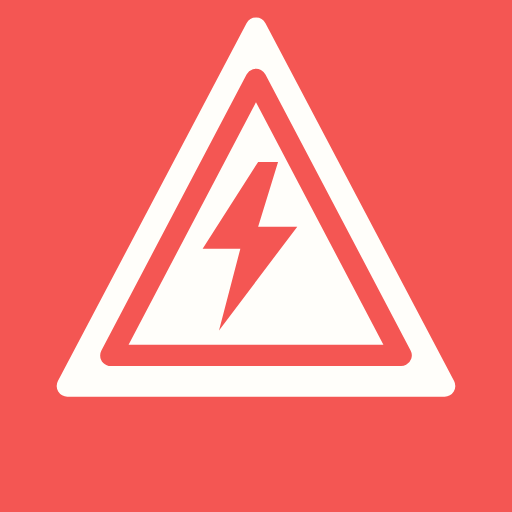
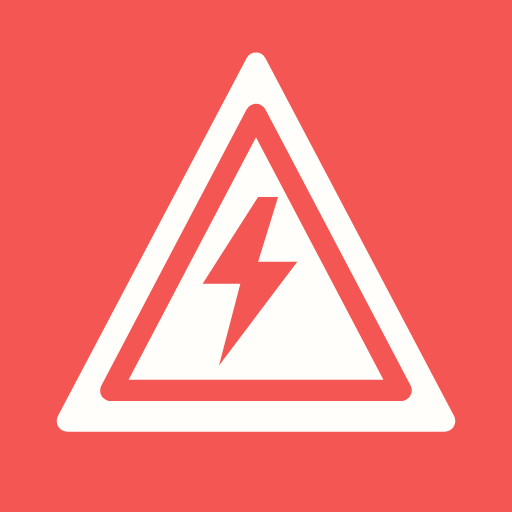
Lower the Dock mark so the triangle reads as centered.
The any icons and apple-touch icon shift the triangle down about 35px at 512. Its bounding box sits slightly above the canvas center, and the bottom corners stay clear of the macOS squircle.

Changed region(s): [[0.0938, 0.0312, 0.9062, 0.8438]]

diff --git a/public/index.html b/public/index.html
@@ -6,12 +6,12 @@
   <meta name="robots" content="noindex">
   <meta name="viewport" content="width=device-width, initial-scale=1, shrink-to-fit=no">
   <meta name="theme-color" content="#F45653">
-  <link rel="manifest" href="%PUBLIC_URL%/manifest.json?v=3">
+  <link rel="manifest" href="%PUBLIC_URL%/manifest.json?v=4">
   <link rel="icon" type="image/svg+xml" href="%PUBLIC_URL%/assets/mark.svg?v=2">
   <link rel="icon" type="image/png" sizes="32x32" href="%PUBLIC_URL%/assets/favicon-dw.png">
   <link rel="icon" type="image/png" sizes="16x16" href="%PUBLIC_URL%/assets/favicon-dw-16.png">
   <link rel="shortcut icon" href="%PUBLIC_URL%/assets/favicon-dw.png">
-  <link rel="apple-touch-icon" href="%PUBLIC_URL%/assets/apple-touch-icon-dw3.png">
+  <link rel="apple-touch-icon" href="%PUBLIC_URL%/assets/apple-touch-icon-dw4.png">
 
   <link href="https://fonts.googleapis.com/css?family=Lato:400,700,900|Merriweather" rel="stylesheet">
 
